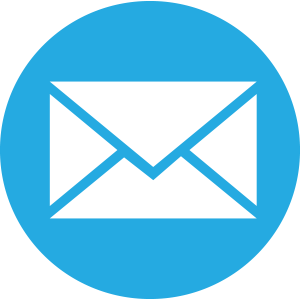
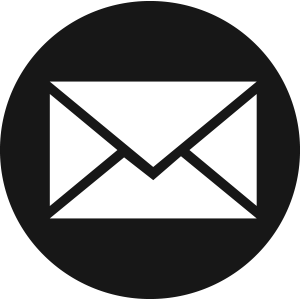
updated contacts

diff --git a/index.html b/index.html
@@ -23,16 +23,15 @@
 <body>
   <div class="container">
     <div class="fadein" id="about">
-      <img src="img/mevt.jpg" id="about-image">
+      <img src="img/me.jpg" id="about-image">
       <h1>Jason King</h1>
       <h2>Web Developer</h2>      
-      <p style="text-indent: 2em">I'm a full stack web developer from the Philadelphia area. I build dynamic, responsive, websites using Ruby on Rails, JavaScript, jQuery, HTML, CSS, and more.</p>
+      <p style="text-indent: 2em">I'm a full stack web developer from the Philadelphia area. I build dynamic, responsive websites using Ruby on Rails, JavaScript, jQuery, HTML, CSS, and more.</p>
       <h2>Get in Touch</h2>
       <div id="contact-icons">    
         <a href="mailto:kingjason222@gmail.com" data-toggle="tooltip" data-placement="left" title="kingjason222@gmail.com"><img src="img/email.png" class="img-responsive center-block"></a>
         <a href="www.linkedin.com/in/kingjasonw" data-toggle="tooltip" data-placement="bottom" title="@kingjasonw on LinkedIn"><img src="img/linkedin.png" class="img-responsive center-block"></a>
         <a href="https://github.com/kingjasonw" data-toggle="tooltip" data-placement="bottom" title="@kingjasonw on GitHub"><img src="img/GitHub.png" class="img-responsive center-block"></a>
-        <a href="https://plus.google.com/u/0/112683149829789361196/about/p/pub" data-toggle="tooltip" data-placement="right" title="@kingjason222 on Google+"><img src="img/google.png" class="img-responsive center-block"></a>
       </div>
     </div><!-- end about -->
     <div id="work">
